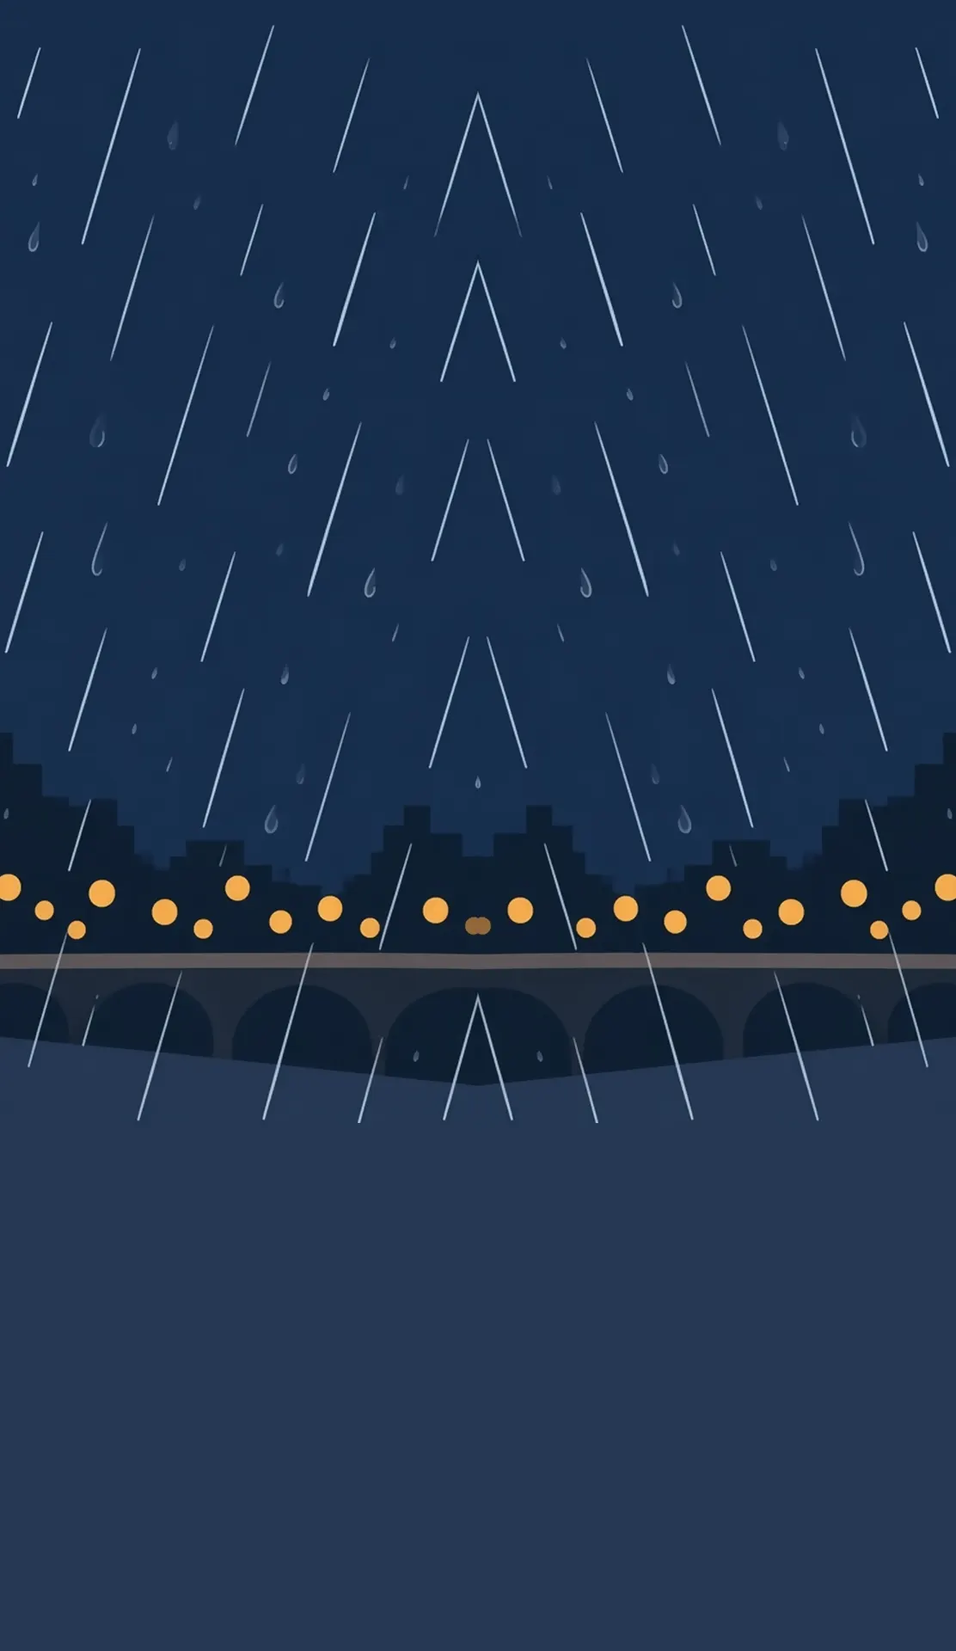
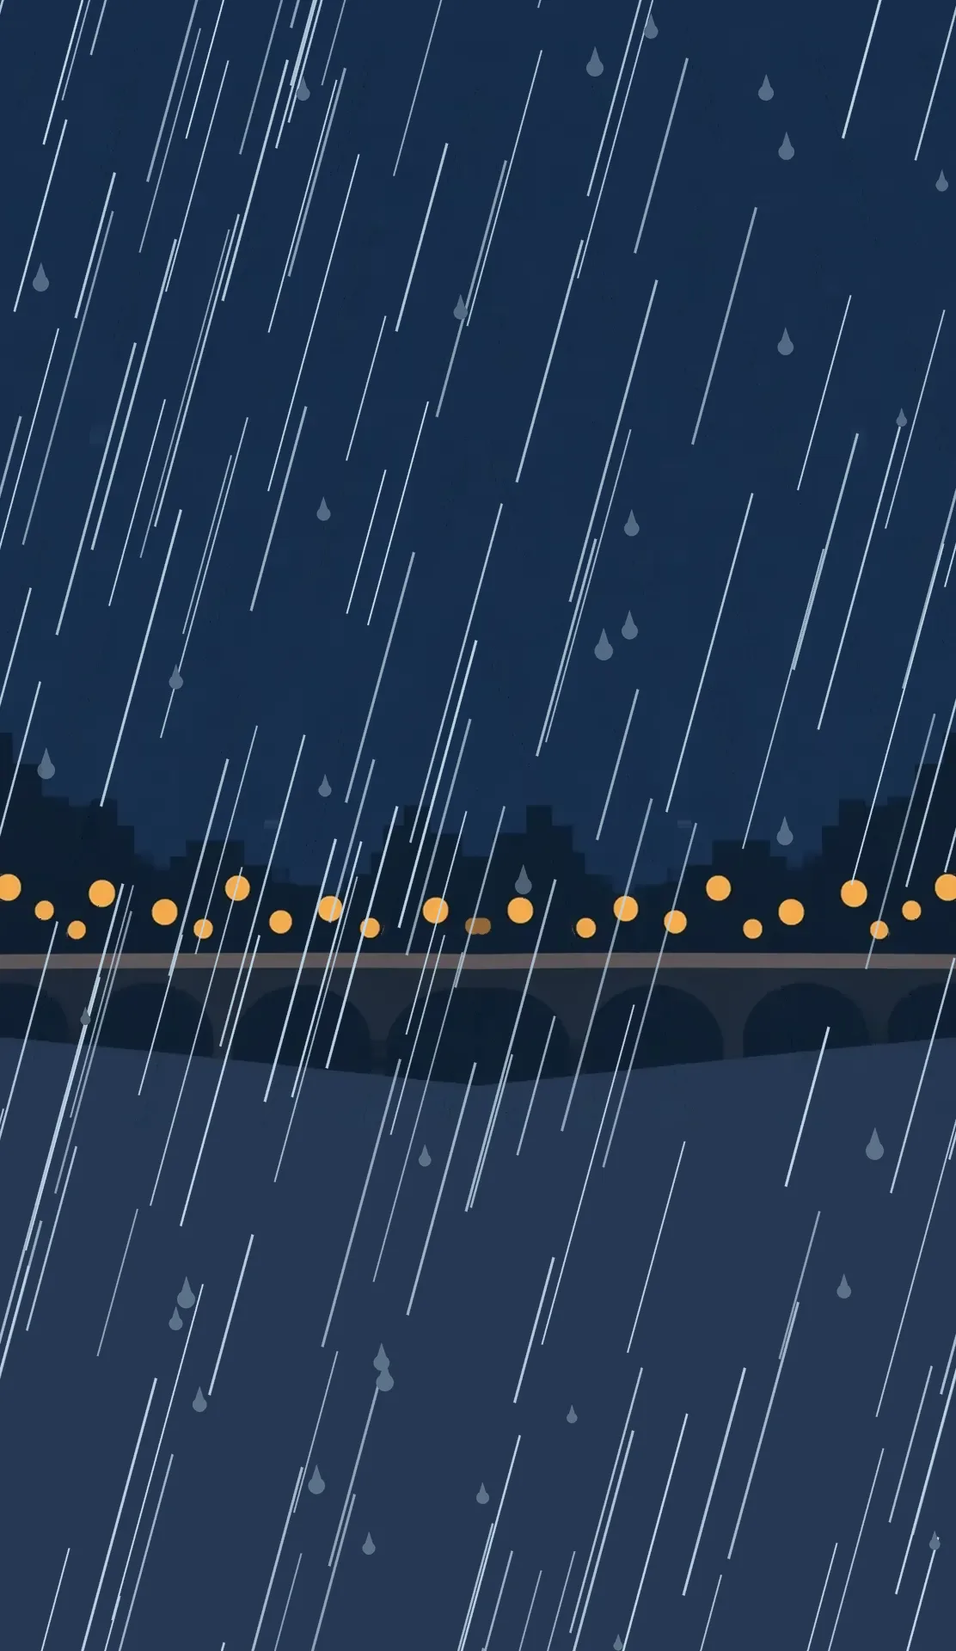
Toko Move v3.11: more interiors, and the weather in the window (deploy main bbdf3ef83)
The night window's rain falls one way; the window carries the run's weather;
the metro by day in a tunnel car; rush hour and the empty car.

Claude-Session: https://claude.ai/code/session_01RChotXKfvWe8T4TEqhykSN

diff --git a/toko-move/js/play.js b/toko-move/js/play.js
@@ -44,7 +44,7 @@ import { addNote } from './sealed.js?v=2';
 import { resolveMode, dailyShare, W } from './modes.js?v=1';
 import { recordDaily, todayRecord, streak } from './daily.js?v=2';
 
-export const BUILD_VERSION = '3.10';
+export const BUILD_VERSION = '3.11';
 const $ = id => document.getElementById(id);
 const params = new URLSearchParams(location.search);
 // a run of the ladder, today's daily, or a day of the week (modes.js, ACT1.md §12)
@@ -64,6 +64,8 @@ const CALM = matchMedia('(prefers-reduced-motion: reduce)').matches;
 const SCENES = {
   tram: { layers: ['01-outside-tile', '02-car', '03-people', '04-courier'], tile: { '916': 1222 / 1920, '169': 1670 / 1080 }, face: { '916': [.53, .34], '169': [.43, .22] }, focus: { '916': [.5, .5], '169': [.5, .45] } },
   night: { layers: ['01-outside-tile', '02-car', '03-people', '04-courier'], drift: true, face: { '916': [.29, .59], '169': [.29, .25] }, focus: { '916': [.42, .55], '169': [.45, .5] } },
+  // the metro by day (v3.11): the tram's car in the metro's colours, a tunnel for a window (make_cars.py)
+  metro: { layers: ['01-outside-tile', '02-car', '03-people', '04-courier'], tile: { '916': 1222 / 1920, '169': 1670 / 1080 }, face: { '916': [.53, .34], '169': [.43, .22] }, focus: { '916': [.5, .5], '169': [.5, .45] } },
   stop: { layers: ['01-backdrop', '02-street', '04-shelter', '05-people', '06-courier'], face: { '916': [.89, .32], '169': [.59, .33] }, focus: { '916': [.68, .4], '169': [.55, .45] } },
 };
 // The key stations (ACT1.md §7): their plate is the bold one. Since v3.10 every
@@ -262,7 +264,7 @@ const L = (name, l, cls = '', extra = '', style = '') => `<div class="L ${cls}" 
 // it, the tram is a layer of its own that comes and goes without a rebuild.
 let view = {};
 function paintScene(name, v = {}, force = false) {
-  const key = name === 'stop' ? `stop|${v.at || ''}|${S?.weather || ''}` : `${name}|${v.car || ''}`;
+  const key = name === 'stop' ? `stop|${v.at || ''}|${S?.weather || ''}` : `${name}|${v.car || ''}|${v.crowd || ''}|${S?.weather || ''}`;
   view = v;
   if (key === sceneKey && !force) return 0;
   const sc = SCENES[name], first = !scene; scene = name; sceneKey = key;
@@ -283,7 +285,10 @@ function paintScene(name, v = {}, force = false) {
         + ((ACT?.wx || []).includes(S?.weather) ? L('stop', `05b-wx-${S.weather}`, 'wxl') : '')
         + L('stop', '06-courier', 'idle');
       html += plateHtml(v.at, LANDMARKS.has(v.at));
-    } else html = sc.layers.map((l, i) => L(name, i && v.car ? `${l}-${v.car}` : l, i === 0 ? (sc.tile ? 'tile' : sc.drift ? 'drift' : '') : (i === 1 ? 'sway' : i === 2 ? 'sway lag' : 'bob'))).join('');
+    } else html = sc.layers.map((l, i) => {
+      const cls = i === 0 ? (sc.tile ? 'tile' : sc.drift ? 'drift' : '') : (i === 1 ? 'sway' : i === 2 ? 'sway lag' : 'bob');
+      return (l = carLayer(name, l, v)) && L(name, l, cls);
+    }).join('');
     frameEl.innerHTML = html;
     place();
     frameEl.classList.remove('push'); if (!CALM) { void frameEl.offsetWidth; frameEl.classList.add('push'); }
@@ -500,13 +505,28 @@ function hint(t) { let h = stage.querySelector('.v3tap'); if (!t) { h?.remove();
 
 // ── the moment ─────────────────────────────────────────────────────────────
 let busy = false, pendingHop = null, skip = null, arrived = null;
-const interior = () => NIGHT ? 'night' : 'tram';
+const interior = hop => NIGHT ? 'night' : hop?.model === 'metro' ? 'metro' : 'tram';
 // The old trams from inside (v3.3, look only like the outside): the museum
 // tram in varnished wood and brass, the Nr I and Nr II in their 1970s
 // orange and beige; the newer three are the car as painted
 // (art/minimal-metro-look/make_interiors.py). The night car is the night car.
 const CAR = { museum: 'museum', nr1: 'old', nr2: 'old' };
 const carOf = hop => (!NIGHT && CAR[hop?.model]) || '';
+// WHO ELSE IS IN THE CAR, AND WHAT THE WINDOW SHOWS (v3.11; owner, 2026-11-06:
+// "lots more art and scenarios in these styles", and 2026-11-07 on the night
+// window's rain). The car fills when the card says so — the crush, or a tram
+// you had to let go by because it was full — and empties for the humming at
+// the back. The window carries the day's weather, which the stop's own rain
+// never could (it is never drawn inside a car). A layer the art does not have
+// (a rush car in the museum tram, rain in a tunnel) is the plain one.
+const crowdOf = (hop, card) => card === 'humming' ? 'empty' : NIGHT || CAR[hop?.model] ? '' : card === 'crush' || hop?.full ? 'rush' : '';
+const WINDOW_WX = { tram: ['rain', 'snow', 'fog'], night: ['snow', 'fog'] };   // the night window already rains
+function carLayer(name, l, v) {
+  if (l === '01-outside-tile') return (WINDOW_WX[name] || []).includes(S?.weather) ? `${l}-${S.weather}` : l;
+  if (v.crowd === 'empty' && l === '03-people') return '';
+  if (v.crowd === 'rush' && (l === '03-people' || l === '04-courier')) return `${l}-rush`;
+  return v.car ? `${l}-${v.car}` : l;
+}
 const modelName = id => TRAMS.find(t => t.id === id)?.name || id;
 function tramFor(c) {
   if (c.kind === 'halt') return { model: S.hop?.model && S.hop.model !== 'metro' ? S.hop.model : 'nr2', family: S.halt.family, halted: true };
@@ -521,7 +541,7 @@ function render() {
     // a card dealt on the way: aboard is the car, on foot is the board mid-walk
     setActor(null);
     if (pendingHop.kind === 'walk') { showBoard(pendingHop, 0.5, c.id); }   // what you walk past rides beside you (v3.9)
-    else { hideBoard(); paintScene(interior(), { car: carOf(pendingHop) }); }
+    else { hideBoard(); paintScene(interior(pendingHop), { car: carOf(pendingHop), crowd: crowdOf(pendingHop, c.id) }); }
   } else {
     hideBoard();
     const t = tramFor(c), leaving = !t && arrived;
@@ -604,7 +624,7 @@ async function pick(i) {
       // the tram you chose pulls in (look only: the model is drawn, the ride is the same)
       if (tram) { const wait = scene !== 'stop' ? paintScene('stop', { at: r.hop.from }) : 0; if (wait) await beat(wait); setTram({ model: r.hop.model, family: r.hop.line.family }); panel.innerHTML = ''; await drive('in'); }
       if (r.hop.model === 'museum') await rare();
-      if (r.hop.kind === 'ride') { hideBoard(); paintScene(interior(), { car: carOf(r.hop) }); sign(r.hop); }
+      if (r.hop.kind === 'ride') { hideBoard(); paintScene(interior(r.hop), { car: carOf(r.hop), crowd: crowdOf(r.hop) }); sign(r.hop); }
       if (r.unsealed) { await beat(900); await reveal({ say: `Aboard the ${r.unsealed.family}, the label makes sense: ${r.unsealed.stop}.`, chips: [], how: 'win' }); }
       if (r.story) { pendingHop = r.hop; busy = false; return render(); }
       if (r.hop.kind === 'ride') await beat(1200);

diff --git a/toko-move/index.html b/toko-move/index.html
@@ -50,4 +50,4 @@
 @media (max-width:899px){.evBtn{min-height:52px}}
 </style></head><body>
 <div id="hud"><span id="hudPill"><span id="clock"></span><span class="a" title="deliveries"><b id="done"></b></span><span id="cargoHud" class="ring" title="cargo"><i></i><b id="cargoGlyph">▪</b></span></span><span class="bg" title="bag"><span id="bagHud"></span></span><span class="e" title="time left on this job"><b id="emit"></b></span><span class="sc" title="score"><b id="score"></b></span><span class="mu" title="on-time streak"><b id="mult"></b></span><span class="nx">next <b id="reach"></b></span><span class="sp"><span id="rush" class="rush"></span><span id="lines"></span><button class="ctl" id="transit">MAP</button><button class="ctl" id="sound" aria-label="sound on" aria-pressed="true">♪</button><button class="ctl" id="pause">❚❚</button><button class="ctl" id="speed">×1</button></span></div><canvas id="map" aria-label="Helsinki HSL network with moving gameplay trams and metro"></canvas><div id="transitPanel" hidden><div class="tpHead"><b>EXACT HSL LAYERS</b><button class="ctl x" id="transitClose">✕</button></div><div class="tpMeta" id="transitMeta"></div><div class="tpActions"><button class="ctl" id="tramOnly">TRAMS</button><button class="ctl" id="metroOnly">METRO</button><button class="ctl" id="allTransit">ALL</button></div><div id="transitRows"></div></div><div id="zoomRail" hidden><button class="ctl z" data-scale="stop">STOP</button><button class="ctl z" data-scale="route">ROUTE</button><button class="ctl z" data-scale="city">CITY</button><button class="ctl z" id="recentre" title="back to the courier" hidden>&#9678;</button></div><div id="pop" hidden><button class="ctl x" id="popClose">✕</button><div id="popBody"></div></div><div id="feed"></div><div id="sheet"></div>
-<div class="veil" id="title"><div class="card"><h1>TOKO MOVE</h1><div class="versionHero"><small>PLAYABLE BUILD</small>v3.10</div><p class="hint" id="titleWhen">Helsinki · 07:00 · five minutes</p><div class="cardBody"><p>A courier on the real Helsinki trams. Take a job, catch what is coming, get off where it says.</p><p class="hint" id="titleGoal">Three deliveries before 08:15. Drops on the way are extra.</p><div id="dayCard"></div><p class="hint credits" id="credits">Transit data: Helsinki Regional Transport Authority (HSL), CC BY 4.0 · Map: © OpenStreetMap contributors, ODbL 1.0 · Districts: City of Helsinki · Toko Midori Games</p></div><p class="hint" id="shiftNo"></p><div id="mutRow"></div><button class="btn prime wide" id="play">START SHIFT</button><a class="btn ghost wide" id="dailyLink" href="?daily" hidden>OR TODAY'S DAILY · the same shift for everyone</a><a class="btn ghost wide" id="weekLink" href="?week" hidden></a><a class="btn ghost wide" id="liveLink" href="?live" hidden>OR LIVE · the real trams, right now</a><div id="testCard" hidden></div></div></div><div class="veil" id="paused" hidden><div class="card"><h2>PAUSED</h2><p class="hint">The shift waits while the game is in the background.</p><button class="btn prime wide" id="resume">RESUME</button></div></div><div class="veil" id="upgrade" hidden><div class="card"><h2>TRANSPORT BOARD</h2><p id="upText"></p><div id="upBtns"></div></div></div><div class="veil" id="end" hidden><div class="card"><h1 id="endTitle"></h1><div id="endStats"></div><p class="hint" id="endNote"></p><button class="btn prime wide" id="again">RUN THE DAY AGAIN</button></div></div><script type="module" src="js/boot.js?v=10"></script><script type="module" src="../hub/shell.js?v=214"></script></body></html>
+<div class="veil" id="title"><div class="card"><h1>TOKO MOVE</h1><div class="versionHero"><small>PLAYABLE BUILD</small>v3.11</div><p class="hint" id="titleWhen">Helsinki · 07:00 · five minutes</p><div class="cardBody"><p>A courier on the real Helsinki trams. Take a job, catch what is coming, get off where it says.</p><p class="hint" id="titleGoal">Three deliveries before 08:15. Drops on the way are extra.</p><div id="dayCard"></div><p class="hint credits" id="credits">Transit data: Helsinki Regional Transport Authority (HSL), CC BY 4.0 · Map: © OpenStreetMap contributors, ODbL 1.0 · Districts: City of Helsinki · Toko Midori Games</p></div><p class="hint" id="shiftNo"></p><div id="mutRow"></div><button class="btn prime wide" id="play">START SHIFT</button><a class="btn ghost wide" id="dailyLink" href="?daily" hidden>OR TODAY'S DAILY · the same shift for everyone</a><a class="btn ghost wide" id="weekLink" href="?week" hidden></a><a class="btn ghost wide" id="liveLink" href="?live" hidden>OR LIVE · the real trams, right now</a><div id="testCard" hidden></div></div></div><div class="veil" id="paused" hidden><div class="card"><h2>PAUSED</h2><p class="hint">The shift waits while the game is in the background.</p><button class="btn prime wide" id="resume">RESUME</button></div></div><div class="veil" id="upgrade" hidden><div class="card"><h2>TRANSPORT BOARD</h2><p id="upText"></p><div id="upBtns"></div></div></div><div class="veil" id="end" hidden><div class="card"><h1 id="endTitle"></h1><div id="endStats"></div><p class="hint" id="endNote"></p><button class="btn prime wide" id="again">RUN THE DAY AGAIN</button></div></div><script type="module" src="js/boot.js?v=11"></script><script type="module" src="../hub/shell.js?v=214"></script></body></html>

diff --git a/hub/games.js b/hub/games.js
@@ -108,17 +108,17 @@ export const GAMES = [
       tagline: 'Lähetin vuoro Helsingissä kortti kerrallaan: mikä ratikka, mihin suuntaan, ketä autat. Kello liikkuu vain, kun valitset.',
       lineage: '80 Days × Mini Metro × oikea Helsinki',
       controls: 'napauta korttia · valitse ratikka tai kävely · avaa kartta kulmasta',
-      note: 'UUTTA v3.10: jokainen pysäkki on jossakin: Uspenski Katajanokalla, kaasukello Sörnäisissä, Kruunusilta, Puu-Käpylä ja muut, ja sää jää pysäkille: lunta katoksen katolla, lätäköitä laiturilla. v3.9: kortin henkilö astuu pysäkille.',
+      note: 'UUTTA v3.11: metro päivällä, tunneli ikkunan takana; täysi vaunu ruuhkassa; ja ikkunassa näkyy sää päivällä ja yöllä: sade (nyt kaikki samaan suuntaan), lumi, sumu. v3.10: jokainen pysäkki on jossakin: Uspenski Katajanokalla, kaasukello Sörnäisissä, Kruunusilta, Puu-Käpylä ja muut, ja sää jää pysäkille: lunta katoksen katolla, lätäköitä laiturilla.',
     },
     ja: {
       tagline: 'ヘルシンキの配達シフトを一枚ずつ。どのトラム、どの道、誰を助けるか。時計は選んだときだけ進む。',
       lineage: '80 Days × Mini Metro × 実在のヘルシンキ',
       controls: 'カードをタップ · トラムか徒歩を選ぶ · 角の地図を開く',
-      note: 'v3.10の新着：どの停留所にも名所が。カタヤノッカのウスペンスキー大聖堂、ソルナイネンのガスタンク、クルーヌ橋、木造のケピュラなど。天気も停留所に積もる：屋根の雪、ホームの水たまり。v3.9：カードの登場人物が停留所に。',
+      note: 'v3.11の新着：昼の地下鉄、窓の外を流れるトンネル。ラッシュの満員車両。窓には昼も夜も天気が映る：雨（今はすべて同じ向きに降る）、雪、霧。v3.10：どの停留所にも名所が。カタヤノッカのウスペンスキー大聖堂、ソルナイネンのガスタンク、クルーヌ橋、木造のケピュラなど。天気も停留所に積もる：屋根の雪、ホームの水たまり。',
     },
     status: 'active',
     live: true,
-    note: 'NEW in v3.10: every stop is somewhere: Uspenski at Katajanokka, the gasometer at Sörnäinen, the Crown Bridge, wooden Käpylä and seven more, and the weather lies on the stop: snow on the shelter roof, puddles on the platform. v3.9: who you meet at the stop.',
+    note: 'NEW in v3.11: the metro by day, a tunnel going past its windows; a full car at rush hour; and the window carries the weather, by day and by night: rain (all of it falling the same way now), snow, fog. v3.10: every stop is somewhere: Uspenski at Katajanokka, the gasometer at Sörnäinen, the Crown Bridge, wooden Käpylä and seven more, and the weather lies on the stop: snow on the shelter roof, puddles on the platform.',
     title: 'Toko Move',
     tagline: 'A courier\'s shift in Helsinki, one card at a time: which tram, which way, who to help. The clock only moves when you choose.',
     lineage: '80 Days × Mini Metro × real Helsinki',

diff --git a/toko-move/js/main-v212.js b/toko-move/js/main-v212.js
@@ -1,7 +1,7 @@
 // Toko Move v2.12.2 runtime — clean HSL core + transfer hubs + walking/interception + two-job carry.
 // first, so every word the modules below draw passes through it (v2.66)
 import {tr} from './lang.js?v=10';
-import './core-v212.js?v=84';
+import './core-v212.js?v=85';
 import './route-choice.js?v=28';
 import {LiveNetwork,HEADWAY_MIN,MODE_KMH} from './live-network.js?v=17';
 import {hidden as fogHides} from './weather.js?v=1';
@@ -33,7 +33,7 @@ import {mountAudio} from './audio.js?v=2';
 import {mountTestCard} from './testcard.js?v=3';
 import {mountRecovery} from './recovery-v212.js?v=3';
 import {about,inMinutes} from './ui.js?v=2';
-const BUILD_VERSION='3.10';
+const BUILD_VERSION='3.11';
 function mount(){const tm=window.__tm;if(!tm?.transit||!tm?.flow||!tm?.city){setTimeout(mount,50);return;}tm.version=BUILD_VERSION;// THE DAY IS DRAWN BEFORE THE FLEET, because one of the four is a timetable:
 // QUIET SUNDAY provisions fewer trams, and a fleet cannot be re-provisioned
 // after its vehicles exist without every phase in it moving under the player.

diff --git a/toko-move/js/core-v212.js b/toko-move/js/core-v212.js
@@ -30,7 +30,7 @@ import * as Rush from './rush.js?v=1';
 import {colourOf,parcelHtml,bagHtml} from './parcels.js?v=1';
 
 const $=id=>document.getElementById(id);
-const BUILD_VERSION='3.10';
+const BUILD_VERSION='3.11';
 const MAP_THEME={...THEME,latent:THEME.paper,hideQueues:true,hideLoadMarks:true,hideCarriers:true,modeColours:{metro:'rgba(0,0,0,0)',tram:'rgba(0,0,0,0)',car:'rgba(0,0,0,0)'}};
 const cargoColour=colourOf;   // ONE palette: this file and the job board drew the same parcel in two different colours until v2.43
 const esc=s=>String(s??'').replace(/[&<>\"]/g,ch=>({'&':'&amp;','<':'&lt;','>':'&gt;','\"':'&quot;'}[ch]||ch));

diff --git a/toko-move/js/boot.js b/toko-move/js/boot.js
@@ -12,5 +12,5 @@ const p = new URLSearchParams(location.search);
 // them carry it, so a classic week stays a classic week.
 const CLASSIC = ['classic', 'shift', 'day', 'weather', 'rush', 'kit', 'live', 'skin', 'mutator'].some(k => p.has(k));
 if (CLASSIC) for (const id of ['dailyLink', 'weekLink']) { const a = document.getElementById(id); if (a) a.setAttribute('href', `${a.getAttribute('href')}&classic`); }
-if (CLASSIC) import('./main-v212.js?v=86');
-else import('./play.js?v=10');
+if (CLASSIC) import('./main-v212.js?v=87');
+else import('./play.js?v=11');

diff --git a/sw.js b/sw.js
@@ -19,7 +19,7 @@
 // caching their files from out here would be two answers to the same question.
 // A narrower scope wins the page, so those keep controlling themselves.
 
-const VERSION = 'v253';
+const VERSION = 'v254';
 const CACHE = `suds-hub-${VERSION}`;
 
 const SHELL = [

diff --git a/toko-move/VERSIONS.md b/toko-move/VERSIONS.md
@@ -1,5 +1,68 @@
 # Toko Move — versions
 
+## v3.11 — 2026-11-07
+
+**MORE INTERIORS, AND THE WEATHER IN THE WINDOW** — step 4 of the plan for the
+owner's direction of 2026-11-06 (ROADMAP.md), and the owner's note on a night
+screenshot the next day: *"Rain seems to be falling into 2 different
+directions here. But assume we need more of these and outside art."*
+
+- **The rain fell two ways, and now falls one.** The window is a tile the
+  game scrolls. To make its ends meet, `plates.py` put the picture beside
+  its own mirror. That is fine for a row of houses. It was wrong for the
+  rain the night plate had painted in: the left half fell one way and the
+  right half the other, and where they met the streaks made a row of Λs.
+  - `make_windows.py` takes the painted rain out (a streak is a short
+    bright run along a row; it gets its row's 31 px median).
+  - The rain goes back in as weather, drawn at x and x ± W so the tile stays
+    seamless, all of it falling down and to the left.
+  - A first cut used a square 9 px median. A steep streak fills more than
+    half of that square, so a ghost of every streak stayed, visible only
+    with the contrast stretched.
+  - The painted plate is kept in `art/…/_prev/` so a re-run starts from it.
+- **The window carries the weather.** The stop's rain is never drawn inside
+  a car, so a rainy run showed sun through the glass.
+  - The day tram's window has rain, snow and fog
+    (`01-outside-tile-<rain|snow|fog>`), picked by the run's weather.
+  - The night car's window keeps its rain. A night run is always "clear",
+    and its look was always a rainy night. It gets snow and fog too, made
+    from the dried plate.
+- **The metro by day.** Every metro hop rode the tram's car until now.
+  `make_cars.py` makes it from the same plate:
+  - the metro's colours (orange seats, yellow poles, pale grey laminate);
+  - a tunnel for the window: rings, cable runs, lamps with their light on
+    the wall, a sign too far to read.
+  - Two things found by looking:
+    - The first tunnel put its lamps a few pixels below the glass, and the
+      window read as a black panel. The glass is measured now, and
+      everything sits inside it.
+    - The plate's riders were cut out of a day window, and the cut kept a
+      rim of that sky. It is invisible against daylight and glows against
+      a tunnel. The metro's rider layers drop it, except on Toko's head,
+      whose ring meets its disc in exactly that colour (the first pass
+      chewed it).
+- **Rush hour.** The crush card, or a tram you let go by because it was
+  full, now rides in a full car (`03-people-rush`, `04-courier-rush`):
+  - In 16:9 the plate's rider sits one seat over each way, re-dressed (a
+    green coat and brown hair, a purple coat and black hair). He is cut
+    clean of the seat strips that came with him.
+  - Standing passengers hold straps close to the lens, cropped by the
+    frame, over the courier because they are nearer than he is.
+  - The metro has its own rush car.
+  - The humming card ("the empty car") leaves the riders out.
+- **Gates.**
+  - `test/scenarios.mjs`: every layer the car can ask for exists (the
+    weather list is read from play.js). The rain in every window falls one
+    way, measured as the slant of the image gradient per half. The old
+    two-way plate is the control: the same ruler reads it +0.97 / −0.97,
+    and the new windows +0.69 to +0.96 in both halves. The night's snow
+    and fog have no painted rain under them.
+  - `test/play.cjs` (browser): MEDIUM 1087 rides the metro in the tunnel
+    car and fills it for the crush; MEDIUM 1027 rains in the tram's window
+    and fills the tram.
+  - The gate waits for the car to fill: the card is up 0.2 s before the
+    scene behind it cross-fades, and the bot answered it in less.
+
 ## v3.10 — 2026-11-07
 
 **EVERY STOP IS SOMEWHERE** — step 3 of the plan for the owner's direction of

diff --git a/toko-move/ROADMAP.md b/toko-move/ROADMAP.md
@@ -31,11 +31,18 @@ view") brought up to the scenes. Every step ends in a re-filmed trailer
 3. ~~**v3.10 · More places.**~~ Shipped in v3.10: a landmark for all 23 places (`make_places.py`), snow and puddles on the stop. Autumn leaves wait for a season the game does not have yet. Landmarks for more stations than today's twelve,
    and weather on the scene: snow on the shelter roof, puddles and autumn
    leaves.
-4. **v3.11 · More interiors.** A rush-hour car, the empty last tram and the
-   metro. Pass 3's interiors were cut from generated plates, so this step
-   needs the Nano Banana key (`GEMINI_API_KEY`), which this environment
-   does not have. Without the key, the interiors are drawn in code in pass
-   2's manner.
+4. ~~**v3.11 · More interiors.**~~ Shipped in v3.11 without the key, every
+   car derived from the shipped plate (`make_cars.py`): the metro by day
+   with a tunnel window, a rush-hour car (tram and metro), the empty car for
+   the humming card. The window carries the weather (`make_windows.py`), and
+   the night window's rain falls one way. Generated plates would still add
+   new compositions; that waits for the key.
+5. **v3.12 · Outside the window** (owner, 2026-11-07: *"assume we need more
+   of these and outside art"*). The tram's window shows the same row of
+   houses on every hop. It should show where the hop runs: the sea along
+   the shore, the park, the stone city centre, Kallio's blocks, the bridges.
+   Each is a seamless tile in the plate's register, picked from what lies
+   beside the hop's line on the map, in every weather.
 
 Each step is measured, gated and deployed, and the trailer is re-filmed with
 what changed.
